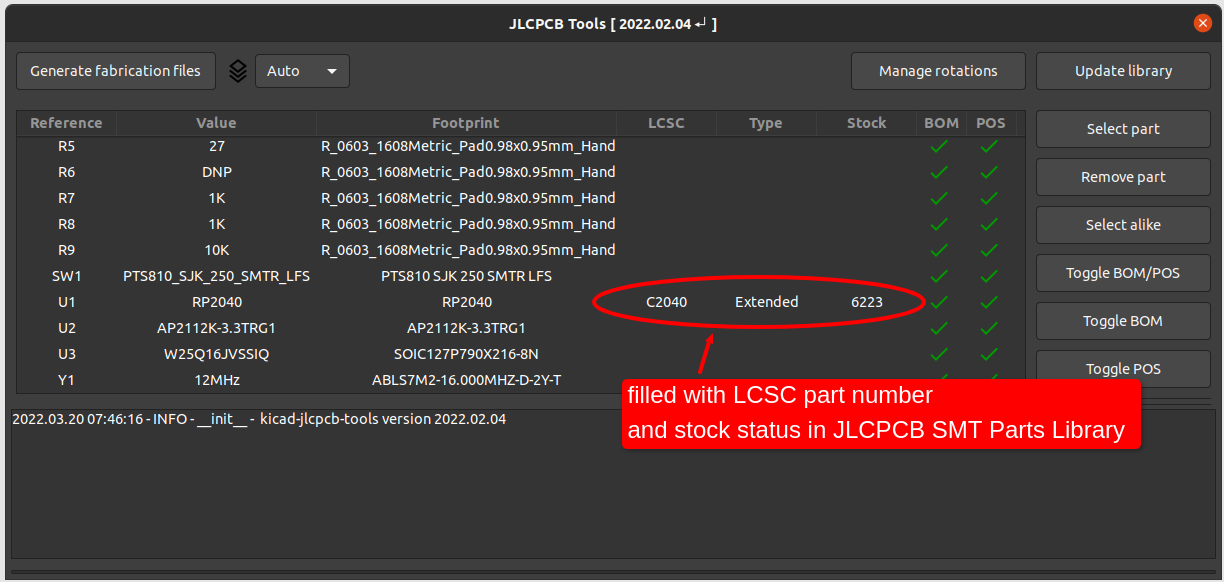
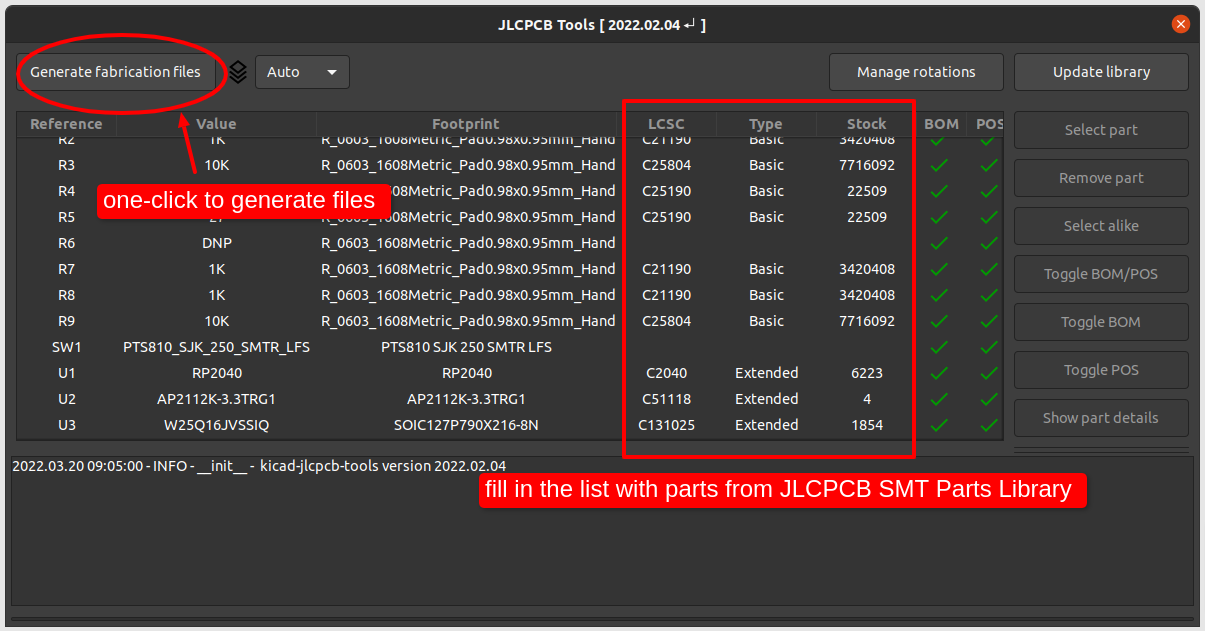
kicad article writing contents finished.

diff --git a/06.kicad/README.md b/06.kicad/README.md
@@ -113,12 +113,38 @@ For example, we'll choose RP2040 in the list.
 <center>
 <img src="./images/kicad-empty-lcsc.png" style="width: 66%" />
 <img src="./images/kicad-searching-rp2040.png" style="width: 66%" />
-<img src="./images/kicad-bom-filled.png" style="width: 66%" />
-<img src="./images/kicad-bom-all-filled.png" style="width: 66%" />
 </center>
 
 After repeating these steps for all the parts you want to assemble, you could get the BOM list is filled with the right information.
 We can assure that our BOM is the most updated and has no shortage issue because we checked JLCPCB's stock status in live while filling in the BOM list.
+
+<center>
+<img src="./images/kicad-bom-filled.png" style="width: 66%" />
+</center>
+
+After you finished filling the BOM list, just click the __Generate fabrication files__.
+The files are generated in the `jlcpcb` folder in the project's root.
+You may need to compress teh `jlcpcb/geber` folder to upload to the ordering form, if the zip file is not generated automatically (for example, as `Geber-<your-project-name>.zip`).
+
+<center>
+<img src="./images/kicad-jlc-files-generated.png" style="width: 66%" />
+</center>
+
+Now we have all the 3 files ready to upload to the [JLCPCB][1] SMT Assembly service page.
+* `Geber-<your-project-name>.zip`
+* `BOM-<your-project-name>.csv`
+* `POS-<your-project-name>.csv`
+
+
+## Conclusion and Further Readings
+
+We've come through how to make a KiCad-designed RP2040 PCB ready to be made by the [JLCPCB][1] SMT Assembly service.
+Although KiCad and RP2040 are mainly discussed, the above method can be used for any different kind of PCB designs.
+For example, you can choose one of your own KiCad project to generate JLCPCB-compitible fabrication files.
+
+If you have any questions directly related to JLCPCB, please read [JLCPCB SMT Assembly FAQs][14] first. Most of common questions are already answered.
+
+Thank you for reading to this end of long text!
 
 ---
 
@@ -135,3 +161,4 @@ We can assure that our BOM is the most updated and has no shortage issue because
 [11]: https://jlcpcb.com/parts/HOT "JLCPCB SMT Parts Library"
 [12]: https://smt.jlcpcb.com/HOT/smtPrivateLibrary?index=1
 [13]: https://lcsc.com/
+[14]: https://support.jlcpcb.com/article/83-smt-assembly-faqs "SMT Assembly FAQs"
